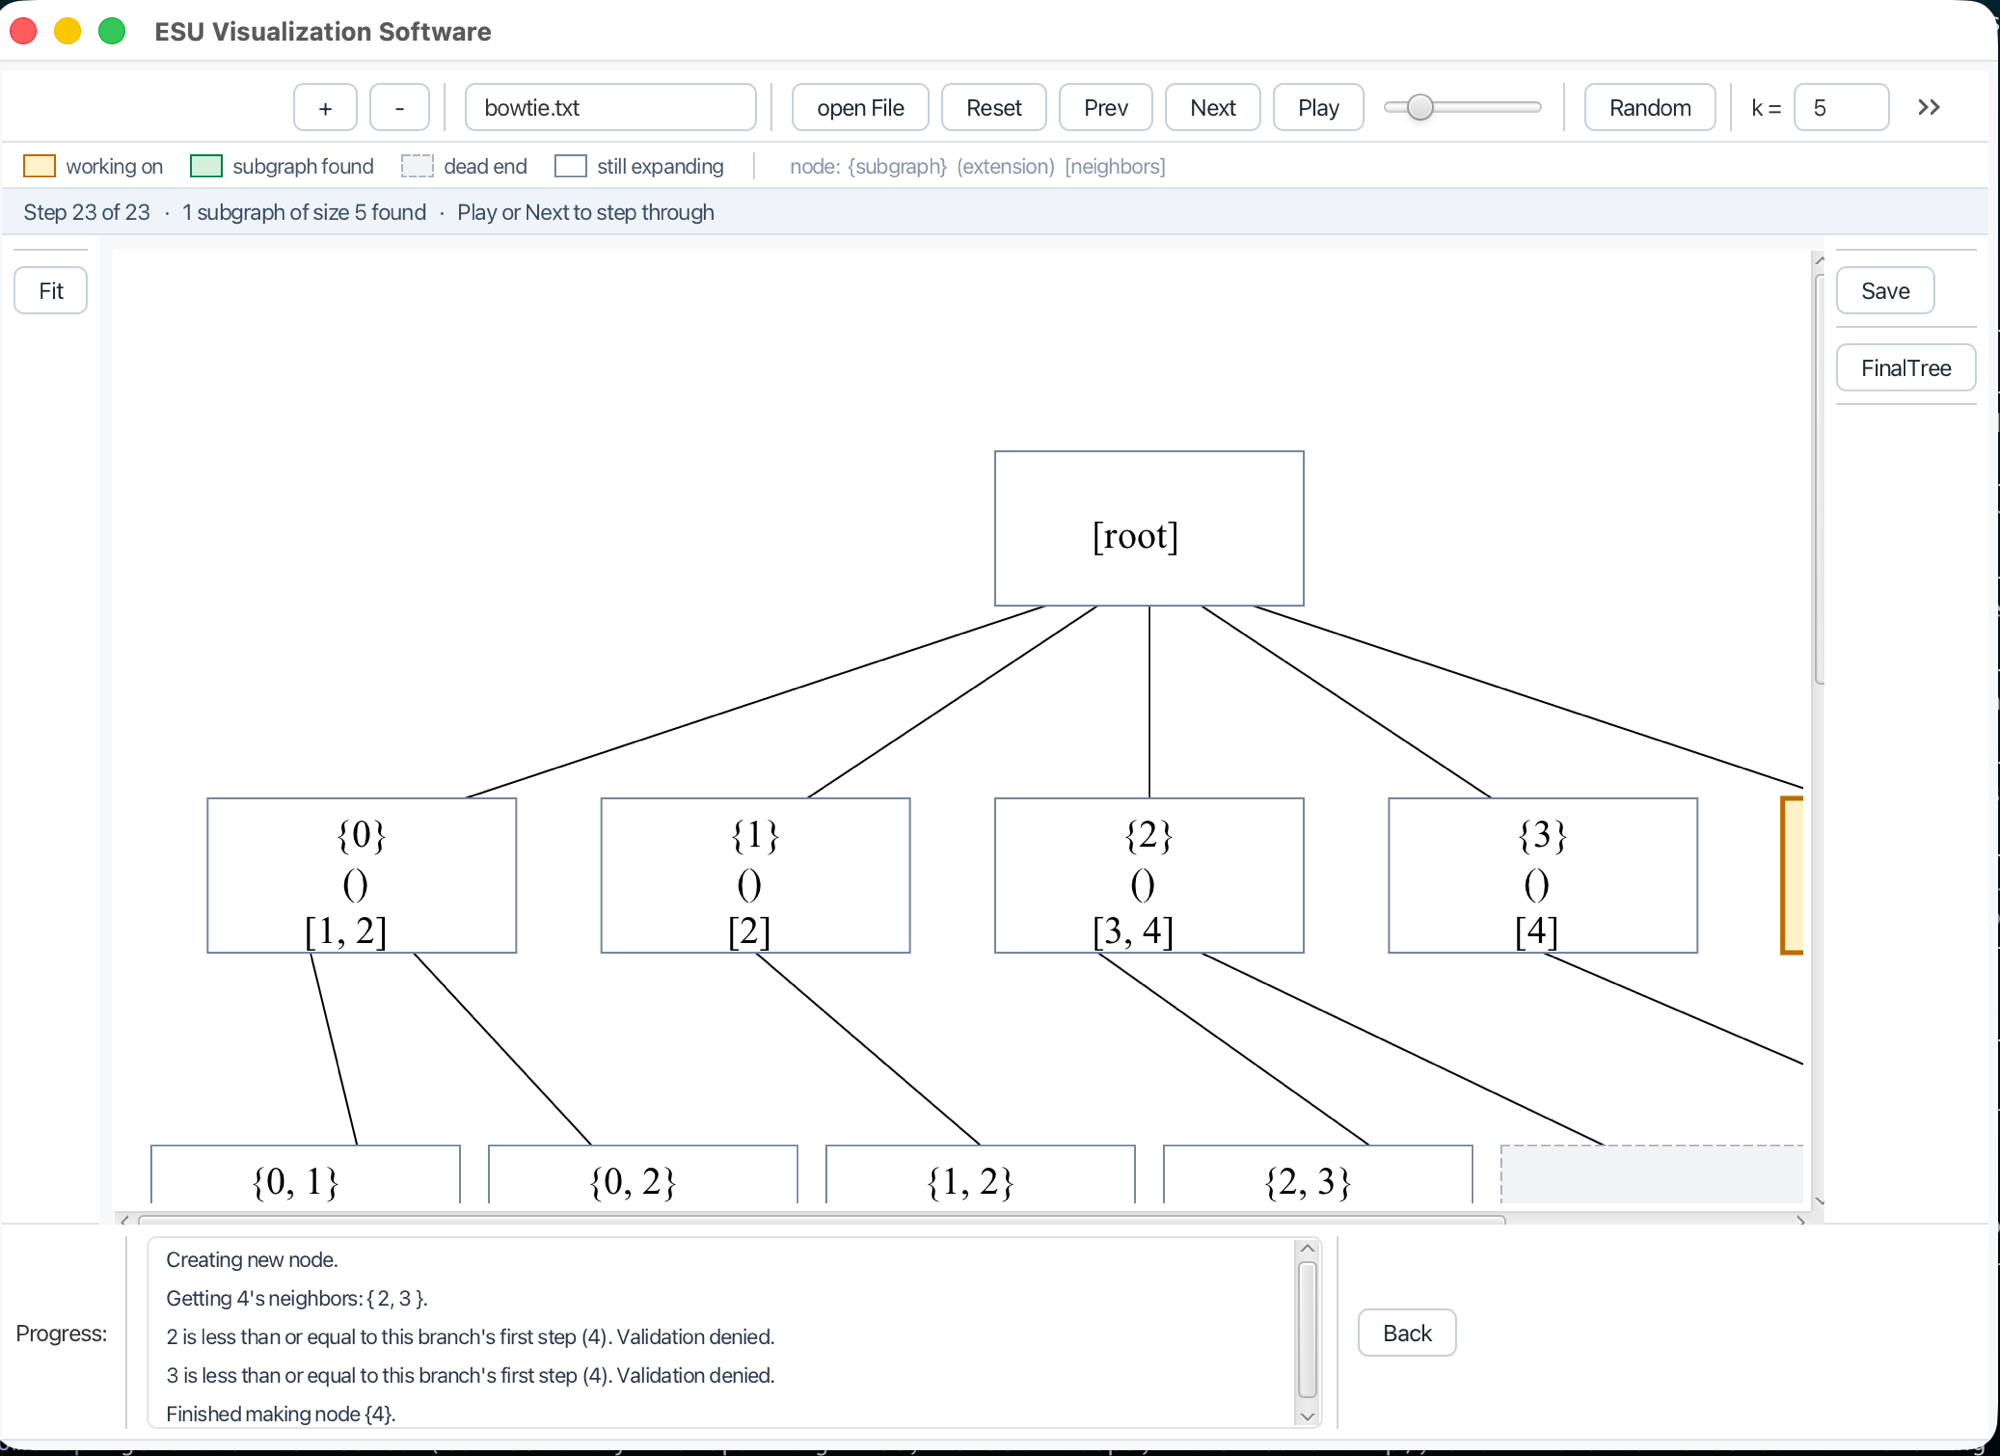
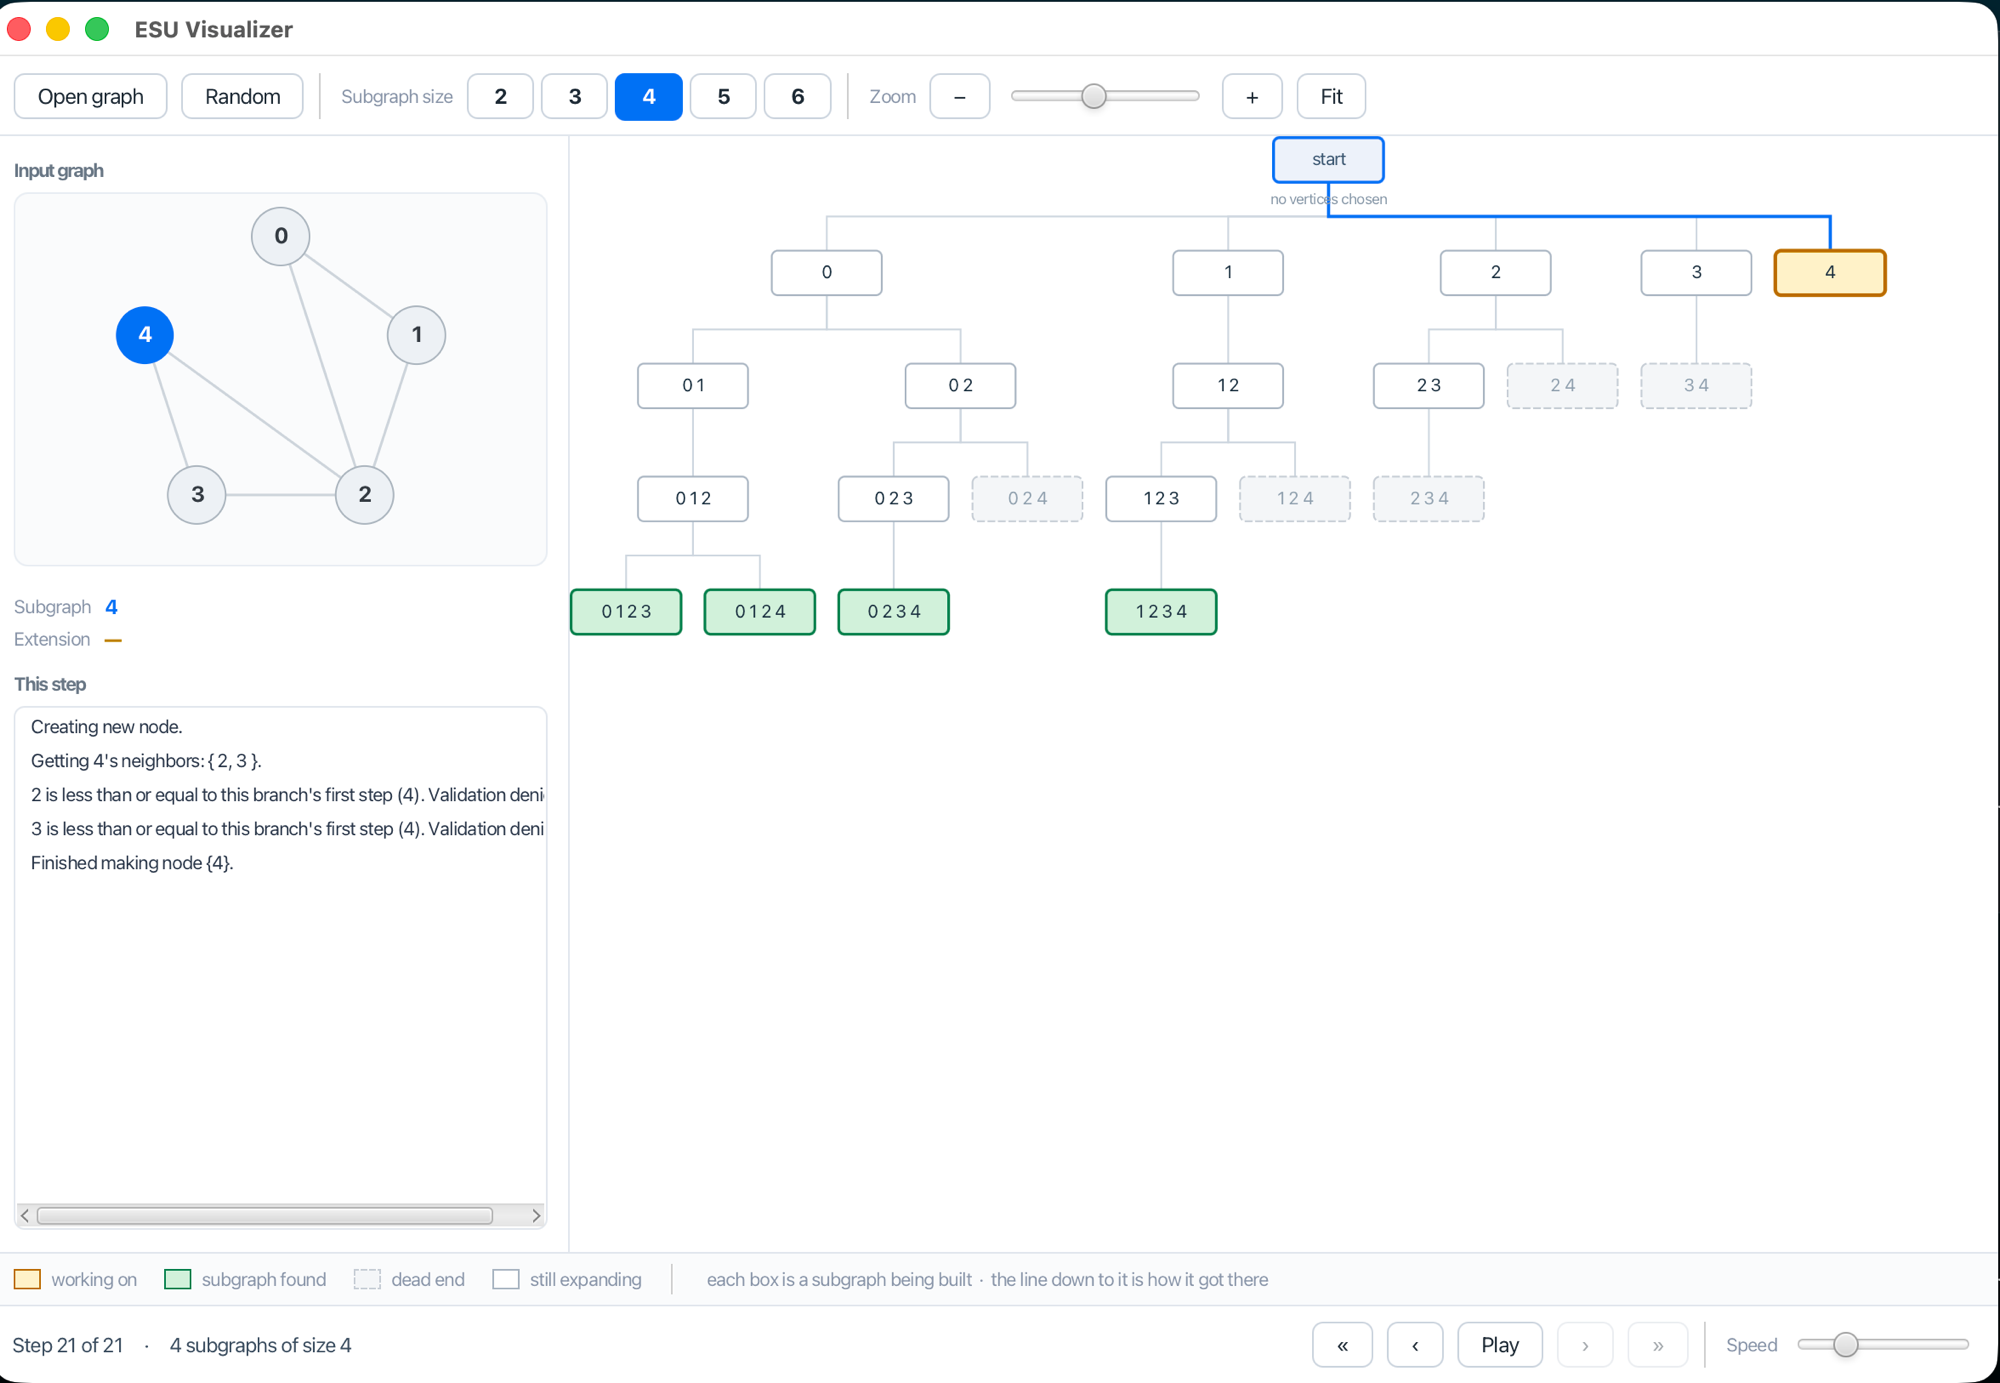
Wrap the step log, restore Save, update the README
- Wrap step log lines. They are sentences, and were clipped mid-word
  behind a horizontal scrollbar: "...Validation deni".
- Move the root's caption above its box, where it no longer sits on top
  of the row of connectors.
- Restore saving the subgraphs found, which the rebuild dropped.
- Rewrite the README for the app as it now is: one window rather than
  three, a graph panel beside the tree, boxes that hold a vertex set
  rather than three unlabelled lines, sizes 2 to 6. Adds a section on
  reading the picture, since the old README explained none of it, and
  replaces the screenshot.

diff --git a/ESU Algorithm/src/esu/algorithm/ui/esu.css b/ESU Algorithm/src/esu/algorithm/ui/esu.css
@@ -143,3 +143,9 @@
     -fx-text-fill: #3d4b5c;
     -fx-font-size: 12px;
 }
+
+.log-line {
+    -fx-font-family: "SF Mono", "Menlo", monospace;
+    -fx-font-size: 11px;
+    -fx-text-fill: #2d3748;
+}

diff --git a/ESU Algorithm/src/esu/algorithm/ui/EsuApp.java b/ESU Algorithm/src/esu/algorithm/ui/EsuApp.java
@@ -11,7 +11,9 @@ import esu.algorithm.StepInfo;
 import esu.algorithm.UndirectedGraph;
 import java.io.File;
 import java.io.IOException;
+import java.io.PrintWriter;
 import java.util.ArrayList;
+import java.util.LinkedList;
 import java.util.List;
 import java.util.HashSet;
 import java.util.Random;
@@ -31,6 +33,7 @@ import javafx.scene.Parent;
 import javafx.scene.Scene;
 import javafx.scene.control.Button;
 import javafx.scene.control.Label;
+import javafx.scene.control.ListCell;
 import javafx.scene.control.ListView;
 import javafx.scene.control.ProgressIndicator;
 import javafx.scene.control.ScrollPane;
@@ -94,6 +97,7 @@ public class EsuApp extends Application {
 
     private final Button openButton = new Button("Open graph");
     private final Button randomButton = new Button("Random");
+    private final Button saveButton = new Button("Save results");
     private final Button startButton = new Button("«");
     private final Button prevButton = new Button("‹");
     private final Button nextButton = new Button("›");
@@ -145,7 +149,7 @@ public class EsuApp extends Application {
         Label zoomCaption = new Label("Zoom");
         zoomCaption.getStyleClass().add("caption");
 
-        HBox bar = new HBox(8, openButton, randomButton,
+        HBox bar = new HBox(8, openButton, randomButton, saveButton,
                 separator(), sizeCaption, sizePills,
                 separator(), zoomCaption, zoomOutButton, zoomSlider,
                 zoomInButton, fitButton);
@@ -289,6 +293,9 @@ public class EsuApp extends Application {
         randomButton.setOnAction(event -> generateRandomGraph());
         randomButton.setTooltip(new Tooltip(
                 "Generate a random connected graph and run ESU on it"));
+        saveButton.setOnAction(event -> saveResults());
+        saveButton.setTooltip(new Tooltip(
+                "Write the subgraphs found to a text file"));
 
         startButton.setTooltip(new Tooltip("Back to the first step"));
         endButton.setTooltip(new Tooltip("Jump to the finished tree"));
@@ -342,6 +349,26 @@ public class EsuApp extends Application {
 
         stepLog.getSelectionModel().selectedIndexProperty()
                 .addListener((obs, was, now) -> highlightFromLog(now.intValue()));
+
+        // Entries are sentences, so wrap them rather than clipping to one
+        // line behind a horizontal scrollbar.
+        stepLog.setCellFactory(view -> new ListCell<>() {
+            private final Label text = new Label();
+            {
+                text.setWrapText(true);
+                text.getStyleClass().add("log-line");
+                text.maxWidthProperty().bind(
+                        stepLog.widthProperty().subtract(34));
+                setGraphic(text);
+            }
+
+            @Override
+            protected void updateItem(String item, boolean empty) {
+                super.updateItem(item, empty);
+                text.setText(empty ? "" : item);
+                setGraphic(empty ? null : text);
+            }
+        });
     }
 
     // ------------------------------------------------------------------
@@ -369,6 +396,39 @@ public class EsuApp extends Application {
             file.getParentFile().mkdirs();
             RandomGraph.writeToFile(RandomGraph.generate(random), file);
             loadGraph(file);
+        } catch (IOException e) {
+            Alerts.displayCouldNotWrite(e.getMessage());
+        }
+    }
+
+    /**
+     * Write the subgraphs found to a file the user picks.
+     */
+    private void saveResults() {
+        FileChooser chooser = new FileChooser();
+        chooser.setTitle("Save the subgraphs found");
+        chooser.setInitialFileName("subgraphs.txt");
+        chooser.getExtensionFilters().setAll(
+                new FileChooser.ExtensionFilter("Text files (*.txt)", "*.txt"));
+
+        File file = chooser.showSaveDialog(saveButton.getScene().getWindow());
+        if (file == null) {
+            return;
+        }
+        try (PrintWriter out = new PrintWriter(file)) {
+            out.println(session.getSubgraphCount() + " connected subgraphs of "
+                    + "size " + session.getSubgraphSize()
+                    + " in " + (currentFile == null
+                            ? "the current graph" : currentFile.getName()));
+            out.println();
+            for (LinkedList<Integer> subgraph
+                    : session.getFinalTree().getSubGraphs()) {
+                StringBuilder line = new StringBuilder();
+                for (Integer vertex : subgraph) {
+                    line.append(line.length() == 0 ? "" : " ").append(vertex);
+                }
+                out.println(line);
+            }
         } catch (IOException e) {
             Alerts.displayCouldNotWrite(e.getMessage());
         }
@@ -566,7 +626,7 @@ public class EsuApp extends Application {
     private void setControlsEnabled(boolean loaded) {
         for (Node control : new Node[]{startButton, prevButton, nextButton,
                 endButton, playButton, speedSlider, fitButton, zoomInButton,
-                zoomOutButton, zoomSlider}) {
+                zoomOutButton, zoomSlider, saveButton}) {
             control.setDisable(!loaded);
         }
     }

diff --git a/ESU Algorithm/src/esu/algorithm/ui/TreeLayout.java b/ESU Algorithm/src/esu/algorithm/ui/TreeLayout.java
@@ -36,6 +36,8 @@ public class TreeLayout {
     private static final double BOX_HEIGHT = 30;
     private static final double COLUMN_GAP = 16;
     private static final double ROW_GAP = 46;
+    /** Space above the root for its caption. */
+    private static final double CAPTION_ROOM = 16;
 
     /** What the root box says, since it stands for choosing nothing yet. */
     public static final String ROOT_ID = "[root]";
@@ -139,7 +141,7 @@ public class TreeLayout {
 
         // The root is not in getNodesByLevel's usable form, so it is placed
         // explicitly and everything on level 1 is treated as its child.
-        Box root = new Box(ROOT_ID, ROOT_LABEL, 0, null, 0);
+        Box root = new Box(ROOT_ID, ROOT_LABEL, 0, null, CAPTION_ROOM);
         boxes.put(ROOT_ID, root);
         children.put(ROOT_ID, new ArrayList<>());
 
@@ -149,7 +151,7 @@ public class TreeLayout {
                 String parentId = level == 1
                         ? ROOT_ID : node.getParent().getSubgraphAsString();
                 Box box = new Box(id, labelFor(node), level, parentId,
-                        level * (BOX_HEIGHT + ROW_GAP));
+                        CAPTION_ROOM + level * (BOX_HEIGHT + ROW_GAP));
                 boxes.put(id, box);
                 children.computeIfAbsent(parentId, key -> new ArrayList<>())
                         .add(box);
@@ -167,7 +169,7 @@ public class TreeLayout {
         }
 
         width = Math.max(nextLeafX - COLUMN_GAP, BOX_WIDTH);
-        height = (depth + 1) * BOX_HEIGHT + depth * ROW_GAP;
+        height = CAPTION_ROOM + (depth + 1) * BOX_HEIGHT + depth * ROW_GAP;
     }
 
     /**

diff --git a/ESU Algorithm/src/esu/algorithm/ui/TreeRenderer.java b/ESU Algorithm/src/esu/algorithm/ui/TreeRenderer.java
@@ -178,9 +178,9 @@ public class TreeRenderer {
 
         if (box.isRoot()) {
             // The root is not a subgraph, and nothing on screen said so.
+            // Above the box: below it runs the row of connectors.
             shapes.add(centredText("no vertices chosen", CAPTION_FONT,
-                    Color.web("#8a97a6"), box.centreX(),
-                    box.getY() + box.getHeight() + 12));
+                    Color.web("#8a97a6"), box.centreX(), box.getY() - 9));
         }
         return shapes;
     }

diff --git a/README.md b/README.md
@@ -10,8 +10,9 @@ enumerating every connected subgraph of size *k*, exactly once each. ESU does
 that with a labelling rule that stops the same subgraph being discovered twice.
 
 The rule is easy to state and hard to picture, which is what this app is for.
-It draws the search tree as it grows, so you can watch a branch get accepted or
-rejected and read why in the step log underneath.
+It draws the graph and the search tree side by side: as you step, the subgraph
+being built lights up in the graph, the tree grows a box for it, and the step
+log says why the algorithm accepted or rejected each candidate.
 
 ![The visualizer running on a five-vertex graph](docs/screenshot.png)
 
@@ -29,46 +30,42 @@ cd ESU-Algorithm
 On macOS, `brew install openjdk@21` will get you the JDK. Check what you have
 with `java -version`.
 
-Run the tests with:
-
-```bash
-./gradlew test
-```
-
 ## Using it
 
-Press **Start Application**, then either **open File** to load a graph, or
-**Random** to generate one and run it immediately.
+**Open graph** loads a file, or **Random** generates one and runs it straight
+away. Then press **Play**, or step with the arrows.
 
 | Control | What it does |
 |---|---|
-| **open File** | Load a graph. Opens in `samples/` |
+| **Open graph** | Load a graph file. Opens in `samples/` |
 | **Random** | Generate a random connected graph, save it to `samples/random-graph.txt`, and run it |
-| **k** | Subgraph size to search for, 2–9 |
-| **Play** / **Next** / **Prev** | Step through the search, automatically or by hand |
-| **FinalTree** | Jump to the finished tree |
-| **Fit** | Zoom so the whole tree is visible |
-| **+ / − / slider** | Zoom |
-| **Save** | Write the subgraphs found to a text file |
+| **Subgraph size** | How many vertices a subgraph must have, 2–6 |
+| **Play** | Step automatically, at the speed set bottom right |
+| **‹ ›** | One step back or forward |
+| **« »** | Jump to the start or to the finished tree |
+| **Fit**, **+ −**, slider | Zoom |
+| **Save results** | Write the subgraphs found to a text file |
 
-Each box in the tree is one node of the search, showing three lines:
+### Reading the picture
 
-```
-{0, 1, 2}     the subgraph built so far
-(3, 4)        the extension set: vertices still available to add
-[5]           neighbours of the subgraph
-```
+**Left**, the graph you loaded. The subgraph being built is blue; the vertices
+it could add next are amber.
 
-Colour says what happened to that node:
+**Right**, the search tree. Each box is one subgraph, written as its vertices,
+and the line down to it is the choice that produced it. The path from **start**
+down to the current box is drawn in blue, so you can see how any subgraph was
+reached. **start** is the empty beginning, before any vertex is chosen.
 
-| Colour | Meaning |
+| Box | Meaning |
 |---|---|
 | Amber | the step being performed right now |
-| Green | reached size *k* — an actual result |
+| Green | reached the requested size — an actual result |
 | Grey, dashed | dead end: the branch ran out of valid vertices |
 | White | still expanding |
 
-Clicking a line in the step log highlights the node it is talking about.
+The **Subgraph** and **Extension** lines under the graph give the same two sets
+in full for the current step, and **This step** below them is the algorithm's
+own commentary. Clicking one of its lines traces that node back to the start.
 
 ## Graph file format
 
@@ -103,19 +100,39 @@ ESU Algorithm/src/esu/algorithm/
 ├── ESUNode.java            one node of the search tree; does the real work
 ├── ESUTree.java            the tree; step() advances the algorithm once
 ├── StepInfo.java           a log entry describing one step
+├── EsuSession.java         one run, positioned at a step
 ├── RandomGraph.java        random connected graph generation
-└── UI/                     JavaFX front end
+└── ui/                     JavaFX front end
+    ├── EsuApp.java         the window
+    ├── GraphPanel.java     the input graph, with the subgraph highlighted
+    ├── TreeLayout.java     where every box goes
+    └── TreeRenderer.java   turning that into shapes
 ```
 
-The split matters: everything outside `UI/` is plain Java with no JavaFX
-dependency, so the algorithm can be tested and reused on its own. `ESUTree.step()`
-advancing exactly one step is what makes pause-and-step possible.
+The split matters: everything outside `ui/` is plain Java with no JavaFX
+dependency, so the algorithm can be tested and reused on its own.
+`ESUTree.step()` advancing exactly one step is what makes pause-and-step
+possible.
+
+`EsuSession` holds a run and where you are in it. Rather than keeping a copy of
+the tree after every step, it reaches a step by replaying the algorithm —
+enumerating from scratch is fast enough that re-running beats remembering, and
+it holds two trees instead of hundreds. `TreeLayout` has no JavaFX reference
+either, so the geometry is tested directly.
 
 ## Tests
+
+```bash
+./gradlew test
+```
 
 The algorithm is checked against a brute-force oracle: enumerate every *k*-subset
 of vertices, keep the connected ones, and require ESU to return exactly that set
 with no duplicates. That runs across several graphs and sizes.
+
+Two other things are worth testing and are: that a step reached by replay is
+identical to one reached by stepping, and that the tree layout puts parents over
+their children without overlapping anything.
 
 ## License
 
